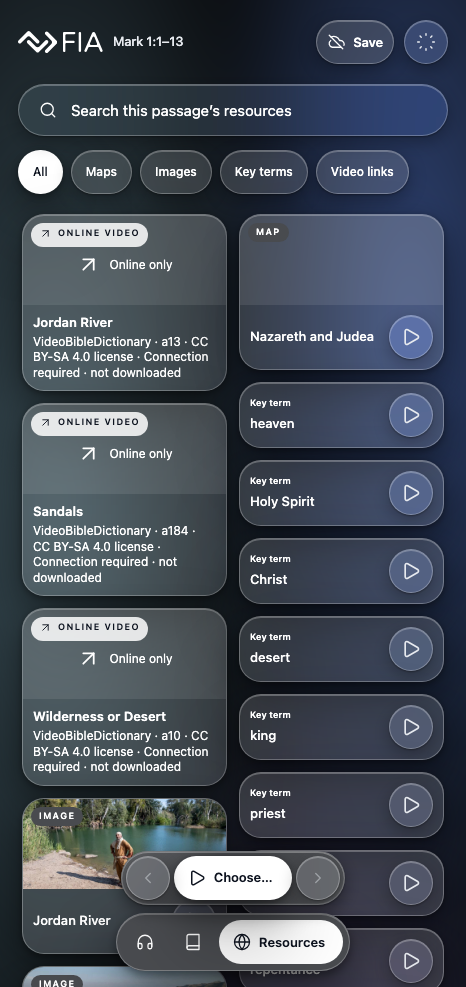
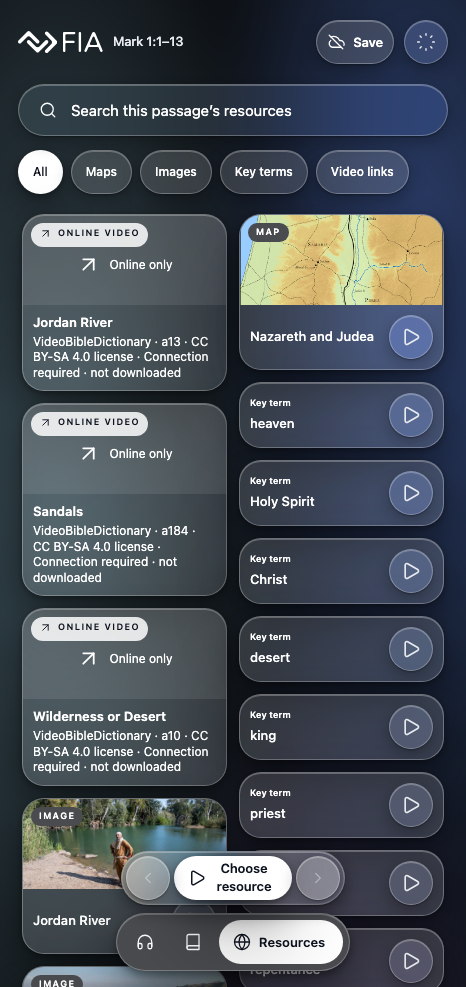
Restore shared glass and fit shell to controls with live next evidence

Changed region(s): [[0.5107, 0.2128, 0.9614, 0.3343], [0.2403, 0.8511, 0.7511, 0.9422]]

diff --git a/src/components/SharedTransport.jsx b/src/components/SharedTransport.jsx
@@ -1,3 +1,3 @@
 import React,{useLayoutEffect,useRef}from'react';
 import{GlassSurface}from'../vendor/glass/components/glass/GlassSurface.jsx';
-export default function SharedTransport({children}){const ref=useRef(null);useLayoutEffect(()=>{const host=ref.current,card=host.closest('.guide-card,.scripture-text'),footer=host.closest('.card-transport-footer');if(!card||!footer)return;const update=()=>card.style.setProperty('--inset-clearance',`${footer.getBoundingClientRect().height+32}px`);const observer=new ResizeObserver(update);observer.observe(footer);update();return()=>observer.disconnect();},[]);return <div ref={ref} className="inset-glass-shell"><GlassSurface level={3} blur="medium" radius="pill" shadow="rest" className="inset-glass" style={{background:'var(--material-floating)'}}>{React.isValidElement(children)?React.cloneElement(children,{inset:true}):children}</GlassSurface></div>;}
+export default function SharedTransport({children}){const ref=useRef(null);useLayoutEffect(()=>{const host=ref.current,card=host.closest('.guide-card,.scripture-text'),footer=host.closest('.card-transport-footer');if(!card||!footer)return;const update=()=>card.style.setProperty('--inset-clearance',`${footer.getBoundingClientRect().height+32}px`);const observer=new ResizeObserver(update);observer.observe(footer);update();return()=>observer.disconnect();},[]);return <div ref={ref} className="inset-glass-shell"><GlassSurface level={3} blur="medium" radius="pill" shadow="rest" className="inset-glass">{React.isValidElement(children)?React.cloneElement(children,{inset:true}):children}</GlassSurface></div>;}

diff --git a/src/styles/app.css b/src/styles/app.css
@@ -97,3 +97,5 @@ html[data-theme="dark"] .scripture-version{background:var(--material-floating)!i
 
 /* Shared DS transport geometry; contextual placement alone varies. */
 .inset-glass{padding:var(--sp-2)!important;border-radius:var(--r-pill)!important}.playback-dock{padding:0!important}.inset-glass .owner-toggle{height:auto;min-height:44px;flex:0 1 auto}.inset-glass .owner-toggle span{max-width:none;white-space:normal;overflow:visible;text-overflow:clip;overflow-wrap:anywhere;line-height:1.35}.guide-card>.guide-footer,.scripture-text>.card-transport-footer{left:var(--sp-4);right:var(--sp-4);bottom:var(--sp-4)}
+/* Fit shared shell to its controls, bounded by each placement. */
+.inset-glass-shell{width:fit-content;max-width:100%;margin-inline:auto}.inset-glass{width:fit-content;max-width:100%}

diff --git a/evidence/inset-glass/contrast/FINAL-RETURN.md b/evidence/inset-glass/contrast/FINAL-RETURN.md
@@ -1,0 +1,7 @@
+# Final bounded correction candidate
+
+Restored exact prior GlassSurface level3/medium/pill/rest; removed material-floating override after explicit user RETURN. Fit-content/max-width shared shell centers around actual controls, retaining actualsp2 edge padding and r-pill. Earlier opaque-shell and solid-side acceptances are superseded. Secondary GlassIconButton light preserved; only current completed eligible Next is dark.
+
+Read-back logs: native Scripture ended produces primary Next; changing version resets it PASS, screenshots next-ended-dark.png/next-reset-dark.png. Author visually inspected ended screenshot: compact glass shell, secondary disabled previous, primary eligible next. Existing controller41unitPASS covers paused/elapsed, restart/stop/restore/stale-ended; actual restored browser Next visual remains untested. Finished-session targeted rerun1PASS resolves earlier timeout without additional product change; concurrent rebuilding was possible but cause was not independently proven. Earlier11PASS1RETURN retained. Final shared screenshot rerun checks319/466 both themes all3contexts against final dist; exact result in final-shared-geometry.log. Build strict inventory still197files172unchangedMP3s.
+
+Review remains mandatory; no source/audio/provider edits, no merge/deployment. Latest author2 upper consumed across interrupted turns; meal45 preserved. Source-current Next browser evidence is narrow Scripture coverage, not all owner/filter/modal acceptance. Root should inspect final images and precise limitations before release.
